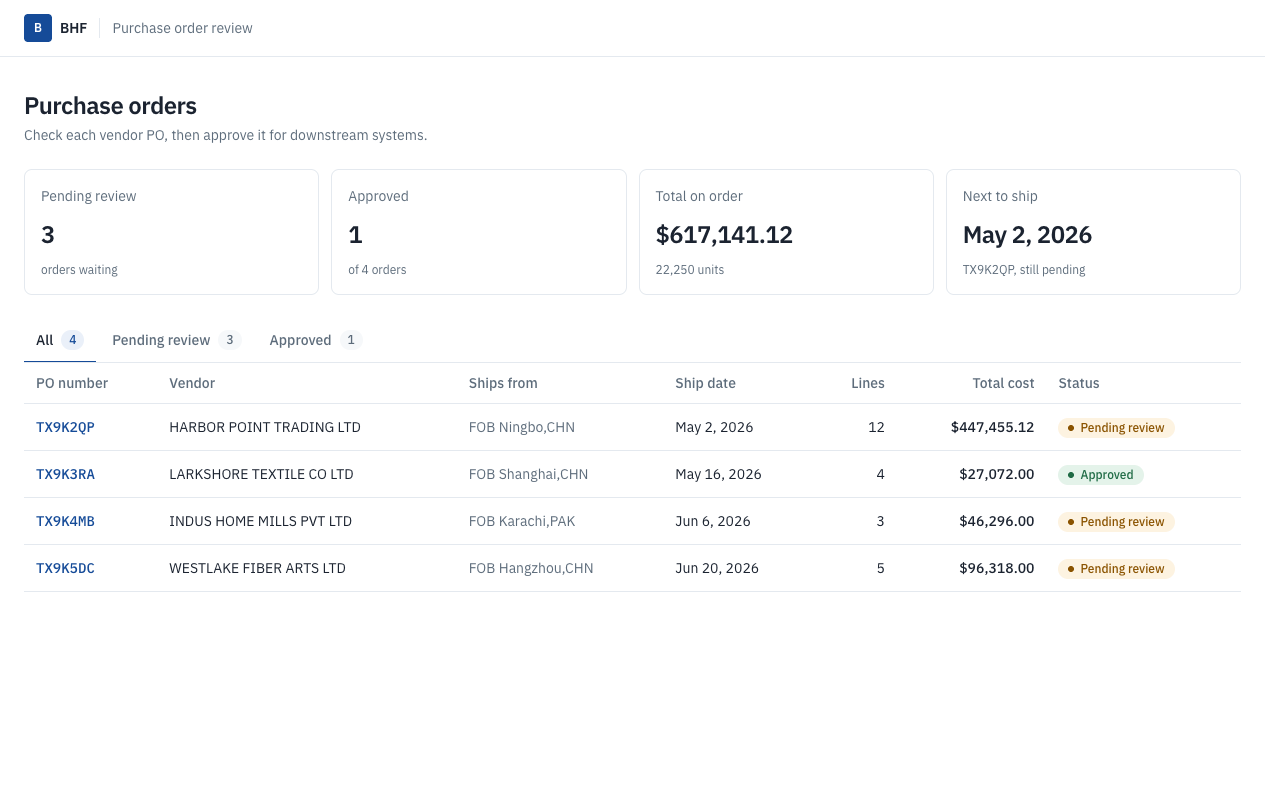
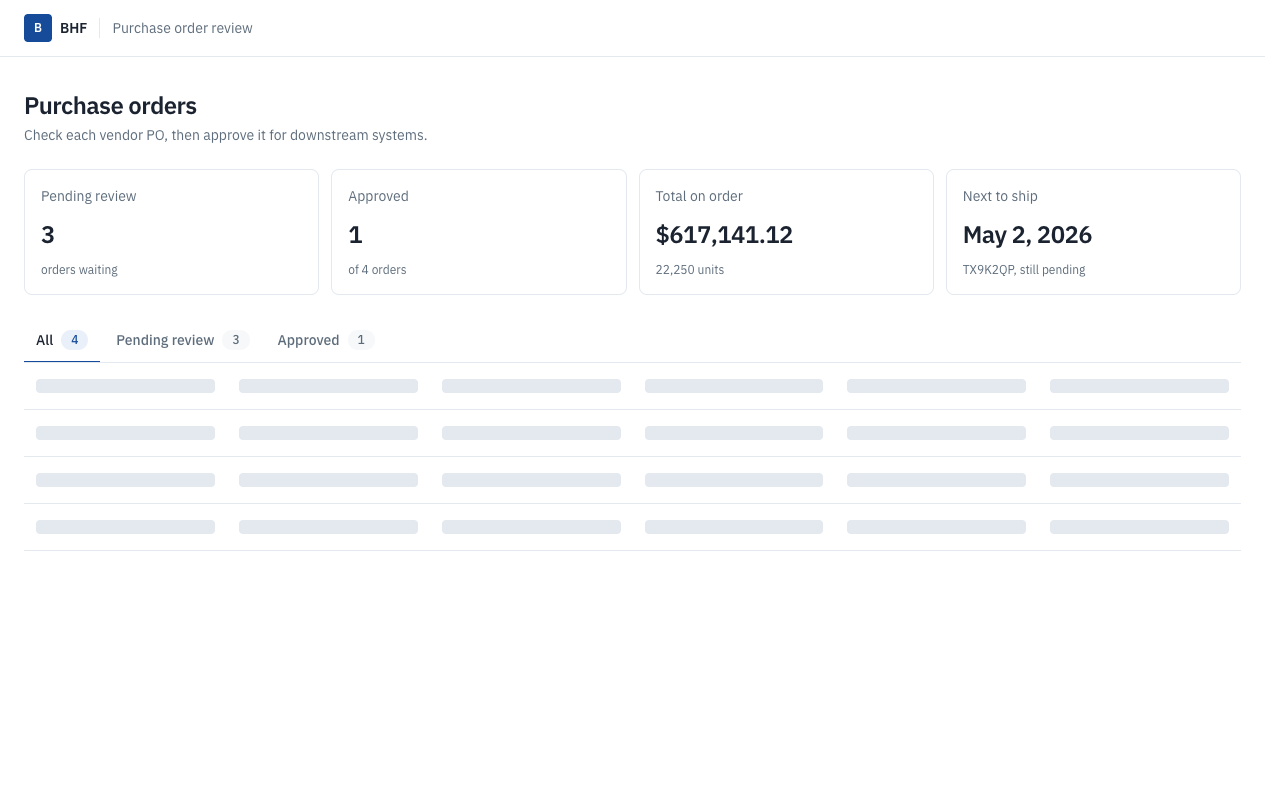
Fix final review: a11y, tabs, e2e race, tokens, CI permissions, docs
- Button keeps focus while saving (aria-disabled); live region announces status
- Tabs: modifier clicks open new tabs; unknown ?status shows All highlighted;
  counts use Badge
- useOptimistic reducer; e2e waits for the save before reloading
- surface/inverse tokens replace literal white; unused badge tones removed
- Skeleton matches the real detail layout; captions and th scope
- Playwright 1.55.1; CI token is read-only; audit advisories documented
- Docs: five parser sections, test runs, First Load JS wording

Changed region(s): [[0.0312, 0.4688, 0.9688, 0.75], [0.0938, 0.4062, 0.1875, 0.4375], [0.2188, 0.4062, 0.2812, 0.4375]]

diff --git a/nextjs-app/components/Skeletons.tsx b/nextjs-app/components/Skeletons.tsx
@@ -1,4 +1,7 @@
-/** Grey placeholder shapes shown while data streams in. They pulse unless reduced motion is on. */
+/** Grey placeholder shapes shown while data streams in. They pulse unless reduced motion is on.
+ *  Each skeleton has the same layout as the content it stands in for, so nothing jumps. */
+
+import { Card } from "@/components/ui/Card";
 
 const bar = "rounded bg-line motion-safe:animate-pulse";
 
@@ -15,11 +18,11 @@ function StatRow() {
   return (
     <div className="grid grid-cols-2 gap-3 lg:grid-cols-4">
       {[0, 1, 2, 3].map((i) => (
-        <div key={i} className="flex flex-col gap-2 rounded-lg border border-line p-4">
+        <Card key={i} className="gap-2">
           <span className={`${bar} h-3.5 w-24`} />
           <span className={`${bar} h-7 w-32`} />
           <span className={`${bar} h-3 w-20`} />
-        </div>
+        </Card>
       ))}
     </div>
   );
@@ -67,20 +70,38 @@ export function TableSkeleton() {
 export function OrderDetailSkeleton() {
   return (
     <Loading label="Loading purchase order">
-      <div className="flex flex-col gap-2">
-        <span className={`${bar} h-8 w-48`} />
-        <span className={`${bar} h-4 w-80 max-w-full`} />
+      {/* title, badge and button */}
+      <div className="flex items-start justify-between gap-4">
+        <div className="flex flex-col gap-2">
+          <span className={`${bar} h-8 w-48`} />
+          <span className={`${bar} h-4 w-80 max-w-full`} />
+        </div>
+        <span className={`${bar} h-11 w-28`} />
       </div>
-      <span className={`${bar} h-16 w-full`} />
+      {/* step tracker */}
+      <Card className="grid gap-4 sm:grid-cols-4">
+        {[0, 1, 2, 3].map((i) => (
+          <div key={i} className="flex flex-col gap-2">
+            <span className={`${bar} size-6 rounded-full`} />
+            <span className={`${bar} h-3.5 w-28`} />
+          </div>
+        ))}
+      </Card>
       <StatRow />
-      <div className="grid gap-6 lg:grid-cols-[minmax(0,1fr)_18rem]">
-        <div className="rounded-lg border border-line">
-          <Rows count={8} columns={5} />
-        </div>
-        <div className="flex flex-col gap-4">
-          <span className={`${bar} h-40`} />
-          <span className={`${bar} h-28`} />
-        </div>
+      {/* order details and the three address cards */}
+      <div className="grid gap-3 sm:grid-cols-2 lg:grid-cols-4">
+        {[0, 1, 2, 3].map((i) => (
+          <Card key={i} className="gap-2">
+            <span className={`${bar} h-4 w-28`} />
+            <span className={`${bar} h-3.5 w-full`} />
+            <span className={`${bar} h-3.5 w-3/4`} />
+            <span className={`${bar} h-3.5 w-2/3`} />
+          </Card>
+        ))}
+      </div>
+      {/* line items */}
+      <div className="rounded-lg border border-line">
+        <Rows count={8} columns={6} />
       </div>
     </Loading>
   );

diff --git a/nextjs-app/components/ProcessSteps.tsx b/nextjs-app/components/ProcessSteps.tsx
@@ -2,10 +2,18 @@ type StepState = "done" | "current" | "problem" | "upcoming";
 export type Step = { title: string; detail: string; state: StepState };
 
 const dot: Record<StepState, string> = {
-  done: "border-approved bg-approved text-white",
-  current: "border-accent bg-white text-accent",
-  problem: "border-danger bg-danger text-white",
-  upcoming: "border-line-strong bg-white text-muted",
+  done: "border-approved bg-approved text-inverse",
+  current: "border-accent bg-surface text-accent",
+  problem: "border-danger bg-danger text-inverse",
+  upcoming: "border-line-strong bg-surface text-muted",
+};
+
+// What a screen reader hears after each step title.
+const spoken: Record<StepState, string> = {
+  done: "done",
+  current: "in progress",
+  problem: "needs attention",
+  upcoming: "not started",
 };
 
 /**
@@ -18,7 +26,7 @@ export function ProcessSteps({ steps }: { steps: Step[] }) {
   return (
     <ol
       aria-label="Order progress"
-      className="grid gap-4 rounded-lg border border-line bg-white p-4 sm:grid-cols-4 sm:gap-0"
+      className="grid gap-4 rounded-lg border border-line bg-surface p-4 sm:grid-cols-4 sm:gap-0"
     >
       {steps.map((step, i) => (
         <li
@@ -44,6 +52,7 @@ export function ProcessSteps({ steps }: { steps: Step[] }) {
               <span aria-hidden className="absolute inset-0 rounded-full bg-accent/30 motion-safe:animate-ping" />
             )}
             <span
+              aria-hidden
               className={`relative grid size-6 place-items-center rounded-full border-2 text-xs font-semibold transition-colors duration-300 ${dot[step.state]}`}
             >
               {/* key makes the mark re-mount, so the pop plays each time the state changes */}
@@ -60,6 +69,7 @@ export function ProcessSteps({ steps }: { steps: Step[] }) {
           <span className="flex flex-col">
             <span className={`font-medium transition-colors ${step.state === "upcoming" ? "text-muted" : ""}`}>
               {step.title}
+              <span className="sr-only"> ({spoken[step.state]})</span>
             </span>
             <span className="text-xs text-muted">{step.detail}</span>
           </span>

diff --git a/nextjs-app/components/StatusTabs.tsx b/nextjs-app/components/StatusTabs.tsx
@@ -3,6 +3,7 @@
 import Link from "next/link";
 import { useRouter, useSearchParams } from "next/navigation";
 import { useOptimistic, useTransition } from "react";
+import { Badge } from "@/components/ui/Badge";
 import { Spinner } from "@/components/ui/Spinner";
 
 const tabs = [
@@ -19,7 +20,9 @@ type Counts = { all: number; pending: number; approved: number };
  * server sends the new table; nothing else on the page reloads.
  */
 export function StatusTabs({ counts }: { counts: Counts }) {
-  const current = useSearchParams().get("status") ?? undefined;
+  // Unknown values (?status=foo) show the full list, so treat them as "All".
+  const param = useSearchParams().get("status");
+  const current = param === "pending" || param === "approved" ? param : undefined;
   const [active, setActive] = useOptimistic(current);
   const [isPending, startTransition] = useTransition();
   const router = useRouter();
@@ -36,6 +39,8 @@ export function StatusTabs({ counts }: { counts: Counts }) {
             href={href}
             scroll={false}
             onClick={(e) => {
+              // Let cmd/ctrl/shift/middle clicks open a new tab as usual.
+              if (e.metaKey || e.ctrlKey || e.shiftKey || e.altKey || e.button !== 0) return;
               e.preventDefault();
               // One transition covers the highlight and the navigation, so the
               // highlight stays until the new table has arrived.
@@ -51,13 +56,9 @@ export function StatusTabs({ counts }: { counts: Counts }) {
           >
             {tab.label}
             {isActive && isPending && <Spinner className="size-3.5 text-accent" />}
-            <span
-              className={`num rounded-full px-2 py-0.5 text-xs ${
-                isActive ? "bg-accent-soft text-accent" : "bg-subtle text-muted"
-              }`}
-            >
+            <Badge tone={isActive ? "accent" : "neutral"} dot={false}>
               {count}
-            </span>
+            </Badge>
           </Link>
         );
       })}

diff --git a/nextjs-app/components/ui/Button.tsx b/nextjs-app/components/ui/Button.tsx
@@ -3,26 +3,35 @@ import { Spinner } from "@/components/ui/Spinner";
 type Variant = "primary" | "secondary";
 
 const variants: Record<Variant, string> = {
-  primary: "bg-accent text-white hover:bg-accent-dark disabled:bg-accent/80",
-  secondary: "border border-line-strong bg-white text-ink hover:bg-subtle",
+  primary: "bg-accent text-inverse hover:bg-accent-dark aria-disabled:bg-accent/80",
+  secondary: "border border-line-strong bg-surface text-ink hover:bg-subtle",
 };
-
-/** Shared button look. Also used for links that should look like buttons. */
-export function buttonClass(variant: Variant = "primary") {
-  return `inline-flex min-h-11 items-center justify-center gap-2 rounded-md px-5 font-medium transition-colors disabled:cursor-wait ${variants[variant]}`;
-}
 
 /** Text link in the accent color. */
 export const linkClass = "font-medium text-accent underline-offset-4 hover:underline";
 
+/**
+ * The one button style. While `pending`, it shows a spinner and ignores clicks,
+ * but stays focusable (aria-disabled, not disabled) so keyboard focus isn't lost.
+ */
 export function Button({
   variant = "primary",
   pending = false,
   children,
+  onClick,
   ...props
 }: React.ButtonHTMLAttributes<HTMLButtonElement> & { variant?: Variant; pending?: boolean }) {
   return (
-    <button {...props} disabled={pending || props.disabled} className={buttonClass(variant)}>
+    <button
+      {...props}
+      aria-disabled={pending || undefined}
+      aria-busy={pending || undefined}
+      onClick={(e) => {
+        if (pending) return e.preventDefault();
+        onClick?.(e);
+      }}
+      className={`inline-flex min-h-11 items-center justify-center gap-2 rounded-md px-5 font-medium transition-colors aria-disabled:cursor-wait ${variants[variant]}`}
+    >
       {pending && <Spinner />}
       {children}
     </button>

diff --git a/nextjs-app/e2e/screenshots.spec.ts b/nextjs-app/e2e/screenshots.spec.ts
@@ -21,7 +21,7 @@ test("README screenshots", async ({ page }) => {
 
   // Approved state, then put it back.
   await page.getByRole("button", { name: "Approve" }).click();
-  await expect(page.getByText("Can be sent on")).toBeVisible();
+  await expect(page.getByRole("button", { name: "Move back to review" })).toBeVisible();
   await page.waitForTimeout(700); // let the step animation finish
   await page.screenshot({ path: `${dir}/detail-approved.png`, clip: { x: 0, y: 0, width: 1280, height: 330 } });
   await page.getByRole("button", { name: "Move back to review" }).click();
@@ -42,8 +42,8 @@ test("palette", async ({ page }) => {
   await page.goto("/");
   const tokens = await page.evaluate(() => {
     const names = [
-      "ink", "muted", "line", "line-strong", "subtle", "accent", "accent-dark", "accent-soft",
-      "pending", "pending-bg", "approved", "approved-bg", "danger", "danger-bg",
+      "surface", "subtle", "line", "line-strong", "muted", "ink", "inverse",
+      "accent", "accent-dark", "accent-soft", "pending", "pending-bg", "approved", "approved-bg", "danger",
     ];
     const css = getComputedStyle(document.documentElement);
     return names.map((n) => [n, css.getPropertyValue(`--color-${n}`).trim()]);
@@ -57,7 +57,7 @@ test("palette", async ({ page }) => {
     .join("");
   await page.setContent(`<style>
       body{font:13px -apple-system,Helvetica,Arial,sans-serif;margin:24px;color:#1b2330;background:#fff}
-      .g{display:grid;grid-template-columns:repeat(7,120px);gap:16px}
+      .g{display:grid;grid-template-columns:repeat(8,120px);gap:16px}
       .s{display:flex;flex-direction:column;gap:4px}
       .c{height:56px;border-radius:8px;border:1px solid #e4e9ef}
       code{color:#5d6c7b}

diff --git a/nextjs-app/components/ui/Badge.tsx b/nextjs-app/components/ui/Badge.tsx
@@ -1,28 +1,30 @@
-export type Tone = "pending" | "approved" | "danger" | "neutral";
+export type Tone = "pending" | "approved" | "accent" | "neutral";
 
 const tones: Record<Tone, string> = {
   pending: "bg-pending-bg text-pending",
   approved: "bg-approved-bg text-approved",
-  danger: "bg-danger-bg text-danger",
+  accent: "bg-accent-soft text-accent",
   neutral: "bg-subtle text-muted",
 };
 
-/** Small rounded label with a colored dot. Color changes fade instead of jumping. */
+/** Small rounded label. Status badges have a colored dot; count pills don't. Color changes fade. */
 export function Badge({
   tone,
   children,
+  dot = true,
   testId,
 }: {
   tone: Tone;
   children: React.ReactNode;
+  dot?: boolean;
   testId?: string;
 }) {
   return (
     <span
       data-testid={testId}
-      className={`inline-flex w-fit items-center gap-1.5 rounded-full px-2.5 py-0.5 text-xs font-medium whitespace-nowrap transition-colors duration-300 ${tones[tone]}`}
+      className={`num inline-flex w-fit items-center gap-1.5 rounded-full px-2.5 py-0.5 text-xs font-medium whitespace-nowrap transition-colors duration-300 ${tones[tone]}`}
     >
-      <span aria-hidden className="size-1.5 rounded-full bg-current" />
+      {dot && <span aria-hidden className="size-1.5 rounded-full bg-current" />}
       {children}
     </span>
   );

diff --git a/nextjs-app/e2e/orders.spec.ts b/nextjs-app/e2e/orders.spec.ts
@@ -33,7 +33,8 @@ test.describe("review status", () => {
     const moveBack = page.getByRole("button", { name: "Move back to review" });
     if (await moveBack.isVisible()) {
       await moveBack.click();
-      await expect(page.getByTestId("status")).toHaveText("Pending review");
+      // The badge changes at once (optimistic); the button label changes when the save is done.
+      await expect(page.getByRole("button", { name: "Approve" })).toBeVisible();
     }
   };
   test.beforeEach(resetToPending);
@@ -48,6 +49,7 @@ test.describe("review status", () => {
 
     await page.getByRole("button", { name: "Approve" }).click();
     await expect(status).toHaveText("Approved");
+    await expect(page.getByRole("button", { name: "Move back to review" })).toBeVisible(); // saved
 
     // Stored on the server: survives a reload and shows on the list.
     await page.reload();
@@ -66,6 +68,7 @@ test.describe("review status", () => {
 
     await page.getByRole("button", { name: "Approve" }).click();
     await expect(page.getByText("Can be sent on")).toBeVisible();
+    await expect(page.getByRole("button", { name: "Move back to review" })).toBeVisible(); // saved
     await expect(review).not.toHaveAttribute("aria-current", "step");
 
     await page.getByRole("button", { name: "Move back to review" }).click();

diff --git a/nextjs-app/components/ReviewPanel.tsx b/nextjs-app/components/ReviewPanel.tsx
@@ -46,11 +46,14 @@ function stepsFor(status: ReviewStatus, p: Props): Step[] {
  */
 export function ReviewPanel(props: Props) {
   const { poNumber, status, subtitle } = props;
-  const [shownStatus, setShownStatus] = useOptimistic(status);
+  // The reducer flips whatever is on screen now, so it never works from a stale value.
+  const [shownStatus, flipShownStatus] = useOptimistic<ReviewStatus, void>(status, (current) =>
+    current === "pending" ? "approved" : "pending",
+  );
 
   const [state, formAction, isPending] = useActionState<ToggleState, FormData>(
     async (prev, formData) => {
-      setShownStatus(shownStatus === "pending" ? "approved" : "pending");
+      flipShownStatus();
       return toggleReviewStatus(prev, formData);
     },
     {},
@@ -88,6 +91,11 @@ export function ReviewPanel(props: Props) {
           )}
         </form>
       </div>
+
+      {/* Tells screen-reader users what happened after they press the button. */}
+      <p role="status" className="sr-only">
+        {isPending ? "Saving" : state.error ? "" : `Status: ${shownStatus === "approved" ? "Approved" : "Pending review"}`}
+      </p>
 
       <ProcessSteps steps={stepsFor(shownStatus, props)} />
     </div>

diff --git a/nextjs-app/components/OrderDetail.tsx b/nextjs-app/components/OrderDetail.tsx
@@ -16,6 +16,7 @@ import { getOrder } from "@/lib/orders";
 /** Everything on the PO page below the breadcrumb. Streams in behind OrderDetailSkeleton. */
 export async function OrderDetail({ poNumber }: { poNumber: string }) {
   const order = await getOrder(poNumber);
+  // The page already returned a real 404 via orderExists(); this only guards the type.
   if (!order) notFound();
 
   const totals = lineTotals(order.lines);
@@ -91,6 +92,7 @@ export async function OrderDetail({ poNumber }: { poNumber: string }) {
           aria-label="Line items, scrolls sideways"
         >
           <table className="w-full min-w-[58rem]">
+            <caption className="sr-only">Line items for {order.poNumber}</caption>
             <thead className="bg-subtle">
               <tr>
                 <Th>SKU / UPC</Th>

diff --git a/nextjs-app/components/ErrorState.tsx b/nextjs-app/components/ErrorState.tsx
@@ -23,10 +23,12 @@ export function ErrorState({
   }, [appError.code, error]);
 
   return (
-    <div role="alert" className="flex flex-col items-start gap-2 py-10">
+    <div className="flex flex-col items-start gap-2 py-10">
       <p className="font-mono text-xs text-muted">Error {appError.code}</p>
       <h1 className="text-2xl font-semibold tracking-tight">{appError.title}</h1>
-      <p className="max-w-prose text-muted">{appError.message}</p>
+      <p role="alert" className="max-w-prose text-muted">
+        {appError.message}
+      </p>
       {error.digest && (
         // In production Next hides the real message; the digest matches the server log.
         <p className="font-mono text-xs text-muted">Reference {error.digest}</p>

diff --git a/nextjs-app/app/globals.css b/nextjs-app/app/globals.css
@@ -2,6 +2,8 @@
 
 /* Product UI: white surfaces, grey hairlines, BHF's slate blue (britannicahome.com) as the one accent. */
 @theme {
+  --color-surface: #ffffff;
+  --color-inverse: #ffffff; /* text on filled colors (accent, approved, danger) */
   --color-ink: #1b2330;
   --color-muted: #5d6c7b;
   --color-line: #e4e9ef;
@@ -15,7 +17,6 @@
   --color-approved: #1f6b45;
   --color-approved-bg: #e4f3ea;
   --color-danger: #b42318;
-  --color-danger-bg: #fdecea;
 
   --font-sans: var(--font-plex-sans), "Helvetica Neue", Arial, sans-serif;
   --font-mono: var(--font-plex-mono), ui-monospace, Menlo, monospace;
@@ -40,7 +41,7 @@ html {
 }
 
 body {
-  background: #ffffff;
+  background: var(--color-surface);
   color: var(--color-ink);
 }
 

diff --git a/nextjs-app/app/layout.tsx b/nextjs-app/app/layout.tsx
@@ -28,7 +28,7 @@ export default function RootLayout({ children }: Readonly<{ children: React.Reac
             <Link href="/" className="flex items-center gap-2 font-semibold">
               <span
                 aria-hidden
-                className="grid size-7 place-items-center rounded bg-accent text-xs font-semibold text-white"
+                className="grid size-7 place-items-center rounded bg-accent text-xs font-semibold text-inverse"
               >
                 B
               </span>
